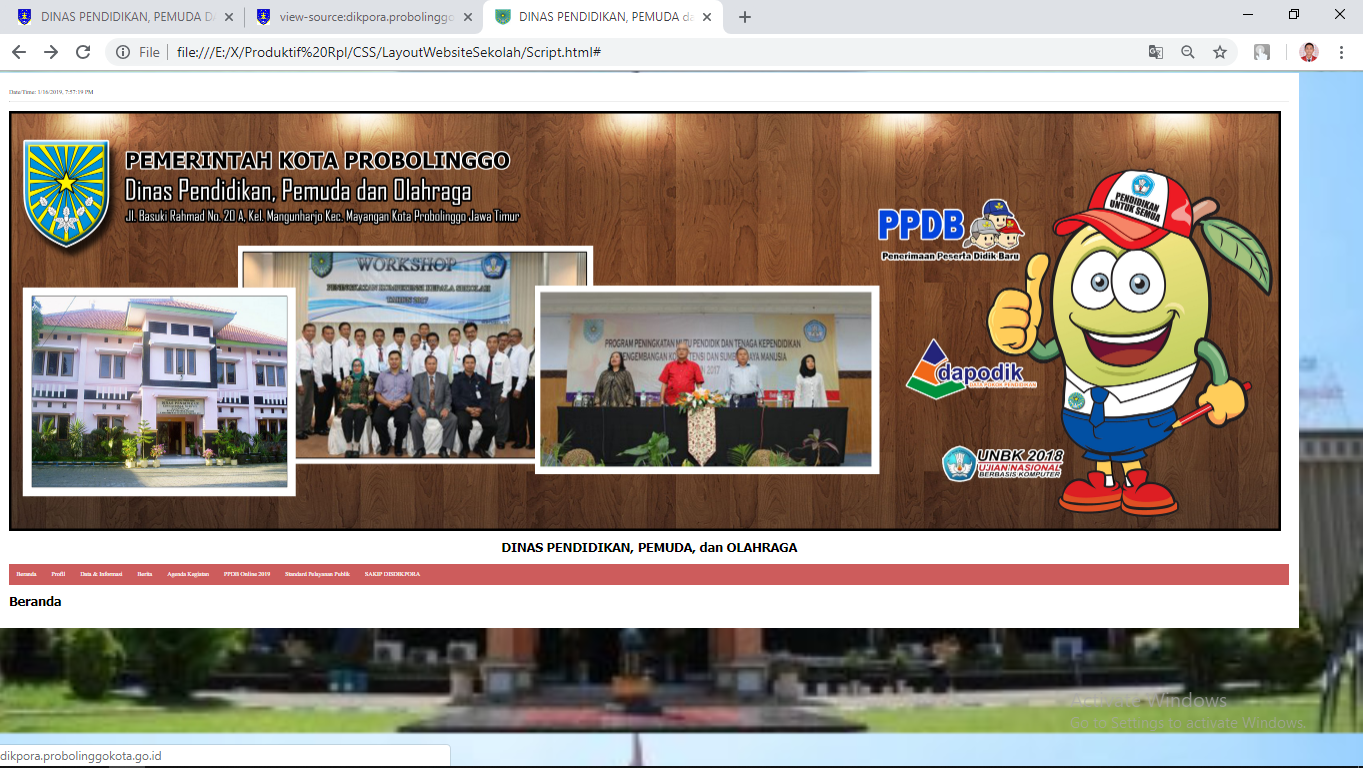
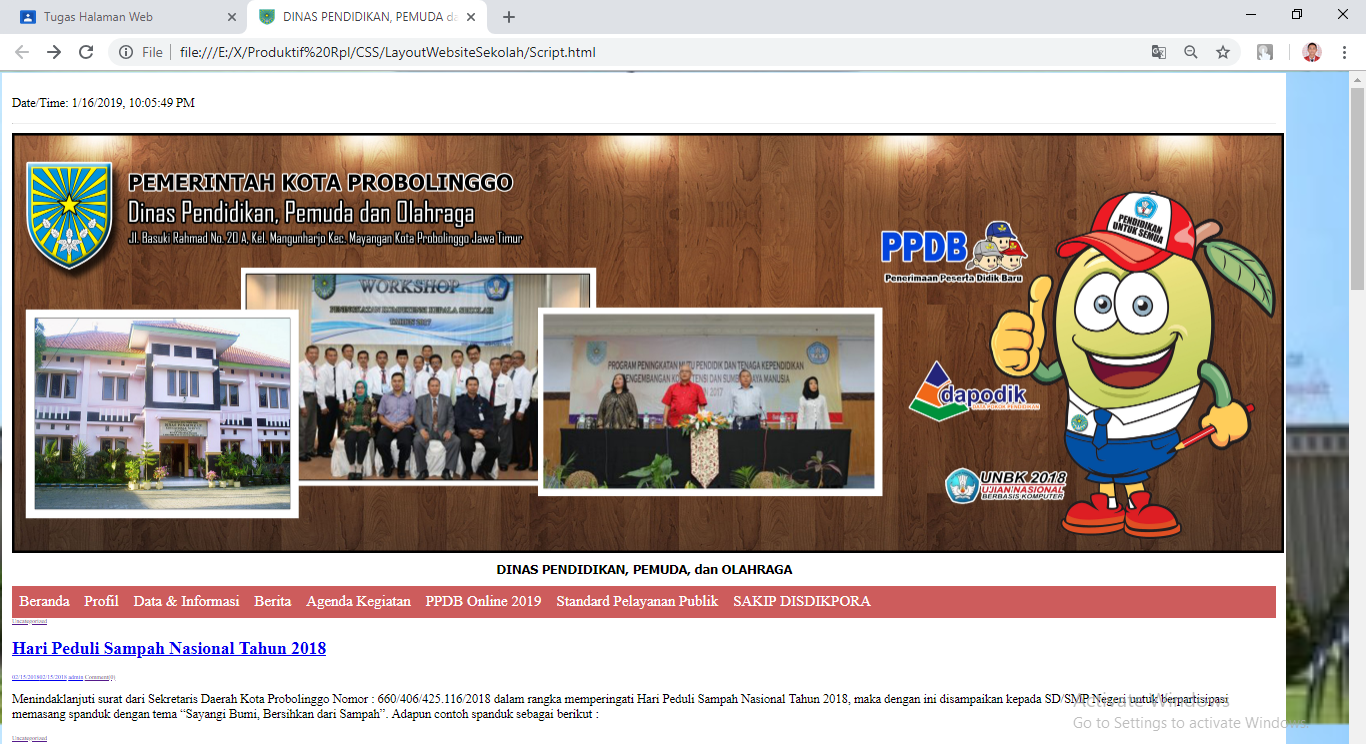
Yang Baru

diff --git a/Script.html b/Script.html
@@ -13,6 +13,7 @@ body.custom-background { background-color: #dd3333; background-image: url("prob.
 </head>
 <style media="screen">
 .menu{ margin:0; width: 100%; position:relative; }
+nav{ width: 50%; height: 0px; background: white; align: right;}
 ul.horizontal{
  list-style-type:none;
  padding: 0;
@@ -29,6 +30,24 @@ ul.horizontal li a{
  text-align: center;
 }
 ul.horizontal li a:hover{ background-color: #CD5C5C;}
+ul.vertical{
+ list-style-type:none;
+ padding:0;
+ margin:0;
+ overflow:hidden;
+ background-color: #e2e0e0;
+}
+ul.vertical li a{
+ display: block;
+ text-decoration:none;
+ color: black;
+ padding: 15px;
+ text-align:left;
+}
+ul.vertical li a:hover{ 
+ background-color: #777777; 
+ color:white;
+}
 div.foto img{
 background-image : url("photowebsite.jpg");
 }
@@ -42,11 +61,28 @@ font-family : Tahoma;
 }
 div.site{
 width:94%;
+height:9000px;
 padding: 40px;
 border: 0px ;
 margin:0px;
 background-color: white ;
 background-size : cover;
+}
+h2{
+font-size :70px;
+}
+p{
+font-size : 50px;
+}
+li{
+font-size:60px;
+float:right;
+}
+nav{
+float:right;
+}
+h4{
+font-size : 60px;
 }
 </style>
 <body>
@@ -95,7 +131,66 @@ document.getElementById("datetime").innerHTML = dt.toLocaleString();
 </div>
 </div>
 <div class="beranda">
-<h1>Beranda<h1>
+<article id="post-542" class="post-542 post type-post status-publish format-standard hentry category-uncategorized">
+	
+	<div class="archive-desc-wrapper clearfix">
+		<header class="entry-header">
+					<div class="post-cat-list">
+							<span class="category-button mt-cat-1"><a href="http://dikpora.probolinggokota.go.id/category/uncategorized/">Uncategorized</a></span>
+					</div>
+<h2 class="entry-title"><a href="http://dikpora.probolinggokota.go.id/2018/02/15/hari-peduli-sampah-nasional-tahun-2018/" rel="bookmark">Hari Peduli Sampah Nasional Tahun 2018</a></h2>		</header>
+		<div class="entry-meta">
+			<span class="posted-on"><a href="http://dikpora.probolinggokota.go.id/2018/02/15/hari-peduli-sampah-nasional-tahun-2018/" rel="bookmark"><time class="entry-date published" datetime="2018-02-15T12:34:09+00:00">02/15/2018</time><time class="updated" datetime="2018-02-15T12:34:47+00:00">02/15/2018</time></a></span><span class="byline"> <span class="author vcard"><a class="url fn n" href="http://dikpora.probolinggokota.go.id/author/admin/">admin</a></span></span>			<span class="comments-link"><a href="http://dikpora.probolinggokota.go.id/2018/02/15/hari-peduli-sampah-nasional-tahun-2018/#respond">Comment(0)</a></span>		</div>
+		<div class="entry-content">
+			<p>Menindaklanjuti surat dari Sekretaris Daerah Kota Probolinggo Nomor : 660/406/425.116/2018 dalam rangka memperingati Hari Peduli Sampah Nasional Tahun 2018, maka dengan ini disampaikan kepada SD/SMP Negeri untuk berpartisipasi memasang spanduk dengan tema &#8220;Sayangi Bumi, Bersihkan dari Sampah&#8221;. Adapun contoh spanduk sebagai berikut :</p>
+		</div>
+
+		<footer class="entry-footer">			
+					</footer>
+	</div>
+</article>
+<article id="post-539" class="post-539 post type-post status-publish format-standard hentry category-uncategorized">
+	
+	<div class="archive-desc-wrapper clearfix">
+		<header class="entry-header">
+					<div class="post-cat-list">
+							<span class="category-button mt-cat-1"><a href="http://dikpora.probolinggokota.go.id/category/uncategorized/">Uncategorized</a></span>
+					</div>
+<h2 class="entry-title"><a href="http://dikpora.probolinggokota.go.id/2018/01/16/instrumen-penilaian-kinerja-pk-kepala-sekolah/" rel="bookmark">Instrumen Penilaian Kinerja (PK) Kepala Sekolah</a></h2>		</header>
+		<div class="entry-meta">
+			<span class="posted-on"><a href="http://dikpora.probolinggokota.go.id/2018/01/16/instrumen-penilaian-kinerja-pk-kepala-sekolah/" rel="bookmark"><time class="entry-date published updated" datetime="2018-01-16T08:02:44+00:00">01/16/2018</time></a></span><span class="byline"> <span class="author vcard"><a class="url fn n" href="http://dikpora.probolinggokota.go.id/author/admin/">admin</a></span></span>			<span class="comments-link"><a href="http://dikpora.probolinggokota.go.id/2018/01/16/instrumen-penilaian-kinerja-pk-kepala-sekolah/#respond">Comment(0)</a></span>		</div>
+		<div class="entry-content">
+			<p>Bersama ini kami sampaikan Instrumen Penilaian Kinerja (PK) Kepala Sekolah masa penilaian dimulai pada Januari sampai dengan Maret. Adapun Instrumen dalam bentuk Ms.Excell dapat diunduh pada tautan ini Demikian informasi yang dapat kami sampaikan, atas perhatiannya disampaikan terima kasih. &nbsp; Sumber : Bidang Ketenagaan Dinas Pendidikan Pemuda dan Olahraga Kota Probolinggo</p>
+		</div>
+
+		<footer class="entry-footer">			
+					</footer>
+	</div><
+</article>
+<section id="archives-2" class="widget widget_archive"><h4 class="widget-title" align="right">Kumpulan Artikel</h4>
+<hr>		
+<nav>
+<ul>
+<li><a href='http://dikpora.probolinggokota.go.id/2018/02/'>Februari 2018</a></li>
+<br>
+<br>
+<br>
+<br>
+<br>
+<br>
+<li><a href='http://dikpora.probolinggokota.go.id/2018/01/'>Januari 2018</a></li>
+<<br>
+<br>
+<br>
+<br>
+<br>
+<br>
+<li><a href='http://dikpora.probolinggokota.go.id/2017/12/'>Desember 2017</a></li>
+</ul>
+</nav>
+
+
+
 
 </div>
 </html>
